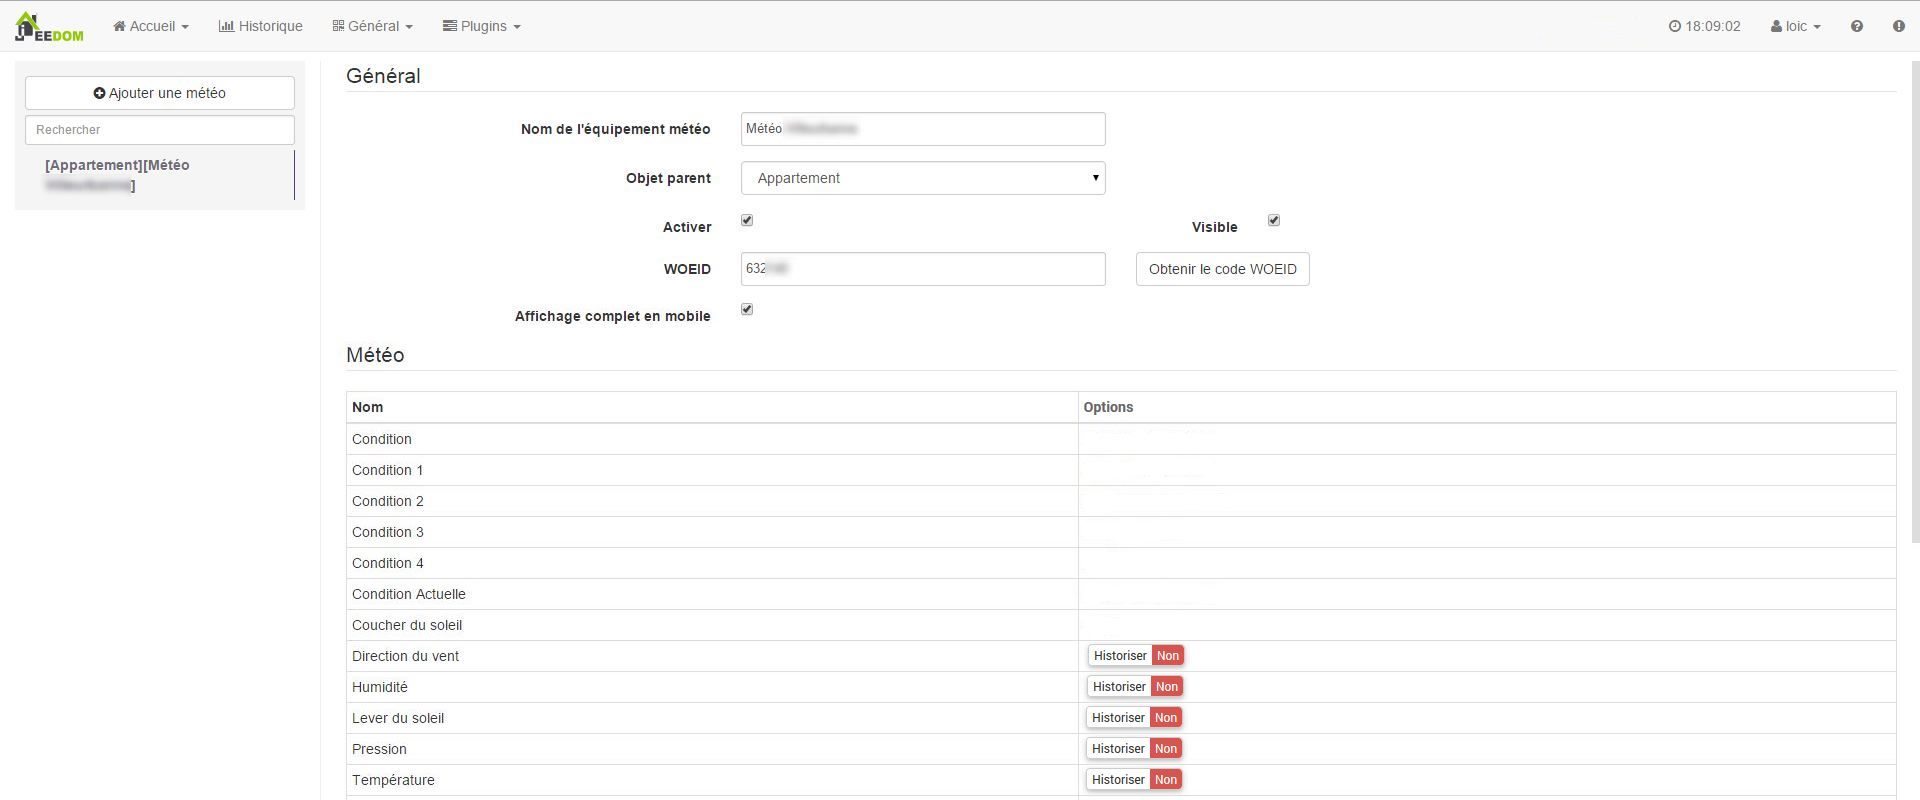
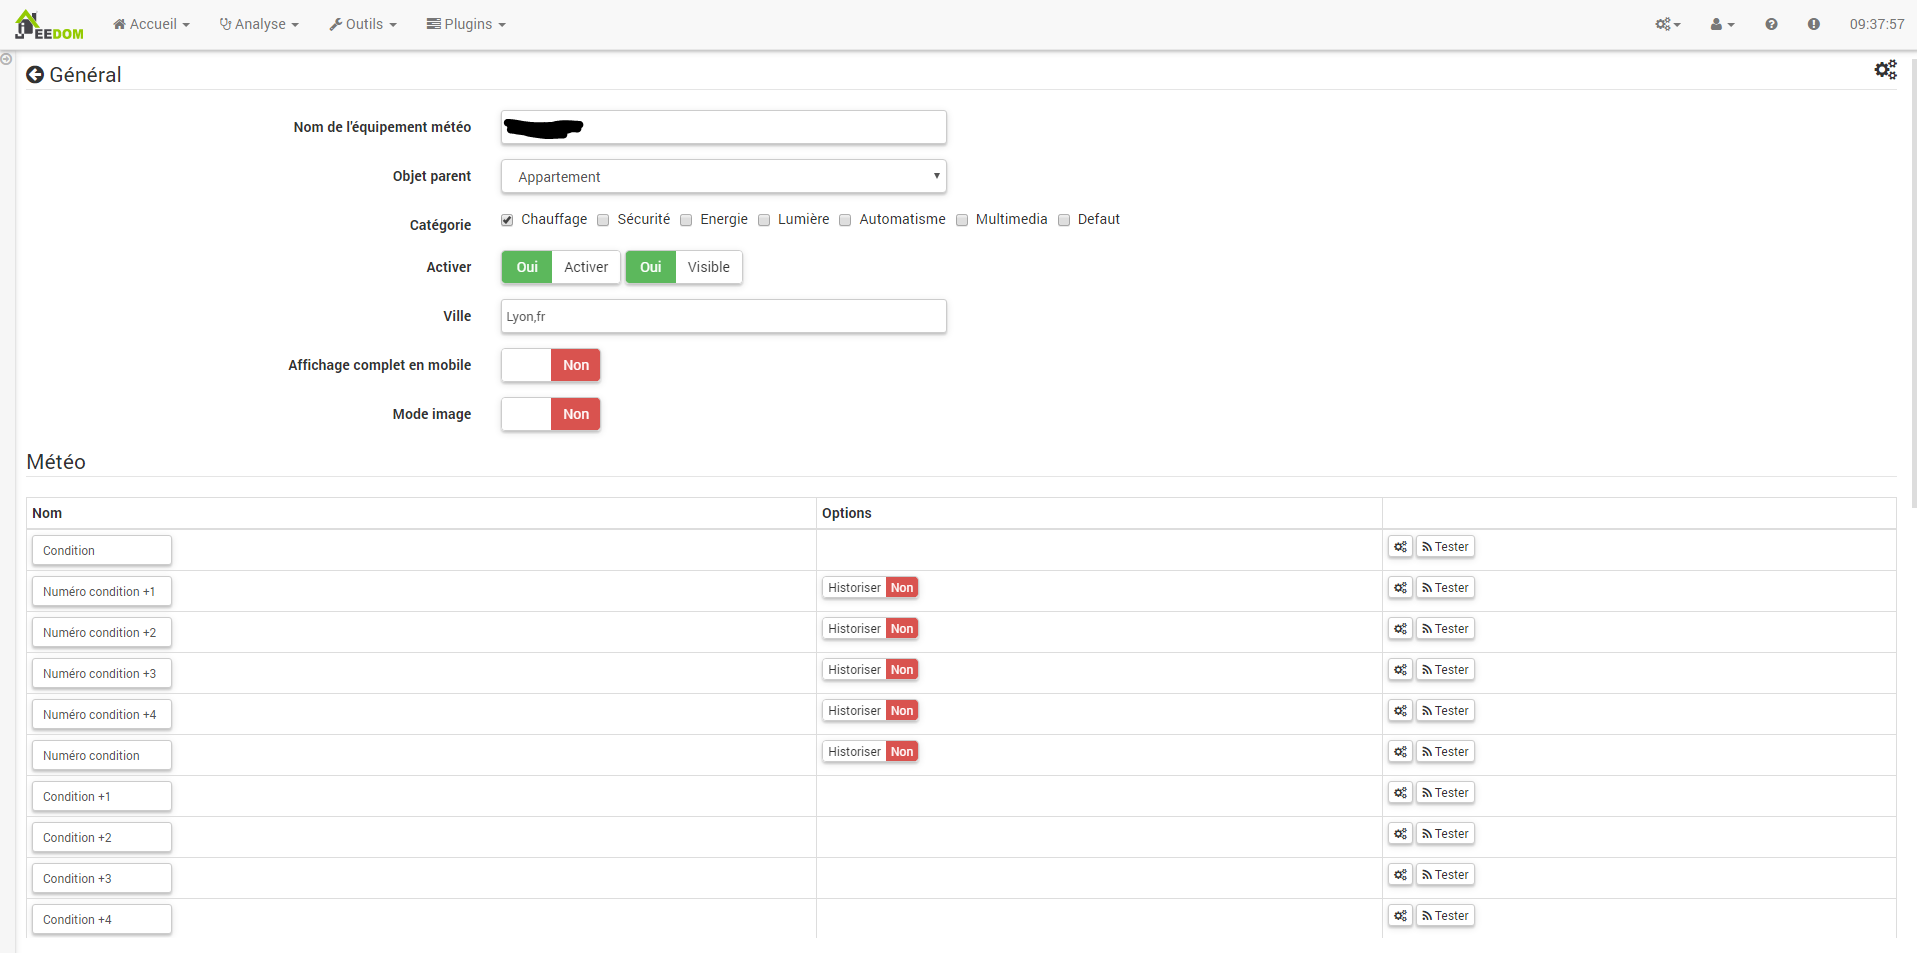
Update doc

diff --git a/core/class/weather.class.php b/core/class/weather.class.php
@@ -86,7 +86,11 @@ class weather extends eqLogic {
 			$eqLogics = array(self::byId($_eqLogic_id));
 		}
 		foreach ($eqLogics as $weather) {
-			$weather->updateWeatherData();
+			try {
+				$weather->updateWeatherData();
+			} catch (Exception $e) {
+				log::add('weather', 'info', $e->getMessage());
+			}
 		}
 	}
 
@@ -660,11 +664,6 @@ class weather extends eqLogic {
 		}
 		$owm = new OpenWeatherMap(trim(config::byKey('apikey', 'weather')));
 		$weather = $owm->getWeather($this->getConfiguration('city'), 'metric', 'fr');
-
-		if ($this->getConfiguration('city_name') != $weather->city->name) {
-			$this->setConfiguration('city_name', $weather->city->name);
-			$this->save(true);
-		}
 
 		$cmd = $this->getCmd('info', 'temperature');
 		if (is_object($cmd) && $cmd->execCmd() != round($weather->temperature->now->getValue(), 1)) {

diff --git a/desktop/php/weather.php b/desktop/php/weather.php
@@ -90,12 +90,9 @@ foreach (jeedom::getConfiguration('eqLogic:category') as $key => $value) {
    </div>
  </div>
  <div class="form-group">
-  <label class="col-sm-3 control-label">{{WOEID}}</label>
+  <label class="col-sm-3 control-label">{{Ville}}</label>
   <div class="col-sm-3">
-    <input type="text" class="eqLogicAttr configuration form-control" data-l1key="configuration" data-l2key="city" placeholder="WOEID"/>
-  </div>
-  <div class="col-sm-3">
-    <a class="btn btn-default" href="http://isithackday.com/geoplanet-explorer/" target=_blank>{{Obtenir le code WOEID}}</a>
+    <input type="text" class="eqLogicAttr configuration form-control" data-l1key="configuration" data-l2key="city" />
   </div>
 </div>
 <div class="form-group">
